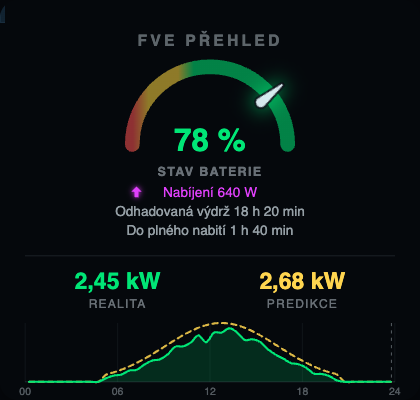
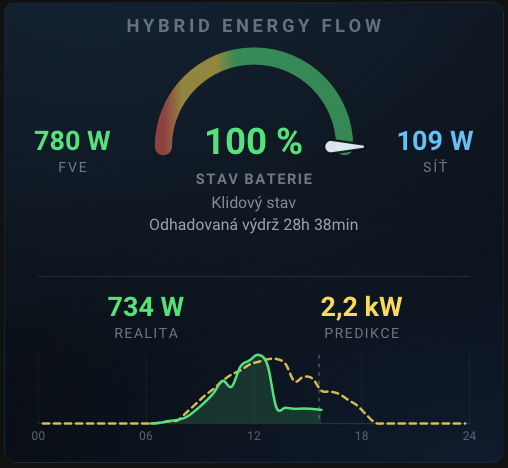
Release v0.7.5: aktuální README a náhledy velké i mini karty

diff --git a/README.md b/README.md
@@ -13,9 +13,12 @@ Custom Lovelace karta pro Home Assistant — animovaný diagram toků energie na
   (L1 = Pračka, L2 = Sušička, ...)
 - Světelné pulzy po vodičích — rychlost úměrná výkonu, směr podle znaménka,
   mrtvá linka pod prahem zešedne
+- Aktivní fáze (> 10 W) mají výraznější okraj chipu barvou fáze / FVE
+- Prognóza výdrže baterie — 3 dny historie + 7denní predikce (Solcast − spotřeba)
 - Klik na uzel / fázi otevře vlastní průběžný graf za posledních 48 hodin
 - Plně konfigurovatelná přes GUI editor (entity pickery, dynamický seznam pater)
 - Responzivní SVG scéna — ideální pro fullscreen `panel` view
+- Volitelné tlačítko ZPĚT pod měničem a rychlý vstup do editace dashboardu
 
 ## Předpoklady a závislosti
 
@@ -50,7 +53,8 @@ z GitHub releases.
 1. Stáhni `fve-flow-card.js` z posledního [release](../../releases)
 2. Zkopíruj do `/config/www/`
 3. Nastavení → Dashboardy → ⋮ → Zdroje → Přidat:
-   URL `/local/fve-flow-card.js?v=0.1.0`, typ **JavaScript module**
+   URL `/local/fve-flow-card.js?v=0.7.5`, typ **JavaScript module**
+   (číslo verze zvyšuj při každé aktualizaci kvůli cache)
 
 ## Konfigurace
 
@@ -182,10 +186,14 @@ Poznámky:
   chipů na každé straně (1 FVE + 3 grid = 1:3). Bez FVE zabírají grid fáze
   celou šířku — jednofázové patro tak má jeden chip přes celý box.
 - **Fáze bez vlastního názvu** se zobrazí jako L1/L2/L3 s ikonou `mdi:flash`.
+- **Aktivní chipy**: při |výkon| > 10 W se okraj chipu zvýrazní barvou fáze
+  (L1/L2/L3) nebo FVE; pod prahem zůstane tlumený. Platí pro patra i AC-IN.
+- **Grid (AC-IN)**: kompaktnější box než dřív; název sítě je malý titulek
+  vpravo nahoře (stejný styl jako Solcast), ikona pylónu zůstává velká.
 - **Ovládací tlačítka**: `inverter.fan_switch` zobrazí v panelu měniče chip
   Zapnout/Vypnout externí chlazení (přepíná rovnou, běžící ventilátor se točí),
-  `pv.mppt_switch` zobrazí v panelu MPPT stejný chip chráněný potvrzovacím
-  dialogem. Bez nakonfigurované switch entity se tlačítka nevykreslí.
+  `pv.mppt_switch` zobrazí v panelu MPPT chip dole (přepnutí s potvrzením).
+  Bez nakonfigurované switch entity se tlačítka nevykreslí.
 - **Tlačítko nastavení**: ikonka ozubeného kolečka v pravém horním rohu karty
   přepne dashboard přímo do editačního režimu (HA URL param `?edit=1`) —
   ušetří průchod přes postranní menu. U panelového view s jedinou kartou se
@@ -193,10 +201,11 @@ Poznámky:
 - **Tlačítko ZPĚT**: volitelné tlačítko pod měničem (`back_button.enabled`).
   Cíl nastavíš v `back_button.path` (např. `/lovelace/home`); prázdná cesta
   vede na výchozí dashboard (`/`).
-- **Prognóza výdrže baterie**: chip **Prognóza** v panelu baterie otevře modal
-  s tabulkou — nahoře **3 dny naměřené historie** (výroba z `pv.energy_today`,
-  spotřeba z `forecast.daily_load_entity` přes recorder statistics; SoC po bilanci
-  u historie je „—“) a pod tím **7denní predikce** (Solcast − denní spotřeba →
+- **Prognóza výdrže baterie**: chip **Prognóza** pod ikonou baterie (jen když
+  je vyplněné `forecast.daily_load_entity`) otevře modal s tabulkou — nahoře
+  **3 dny naměřené historie** (výroba z `pv.energy_today`, spotřeba z
+  `forecast.daily_load_entity` přes recorder statistics; SoC po bilanci u
+  historie je „—“) a pod tím **7denní predikce** (Solcast − denní spotřeba →
   SoC po bilanci). SoC po bilanci = očekávaná hladina z denního rozpočtu (kdy
   výroba dožene spotřebu), ne SoC večer. Potřebuješ `battery.soc`,
   `battery.capacity`, `forecast.daily_load_entity` (kWh/den, ideálně včerejšek
@@ -298,6 +307,10 @@ a registruj resource `/local/fve-flow-card.js?v=dev-1` (číslo zvyšuj kvůli c
   nativní HA historie.
 - Export do gridu se nevizualizuje (ostrovní systém nedodává do sítě).
 - Fáze jsou max. 3 na patro (A/B/C dle Shelly 3EM).
+- Prognóza je hrubý denní model (PV − spotřeba); nepočítá denní průběh ani grid.
+  Bez long-term statistics u `pv.energy_today` / denní spotřeby jsou historické
+  řádky prázdné (`—`).
+- SoC po bilanci u historických dní se nezobrazuje (jen u predikce).
 
 ## Autor
 
